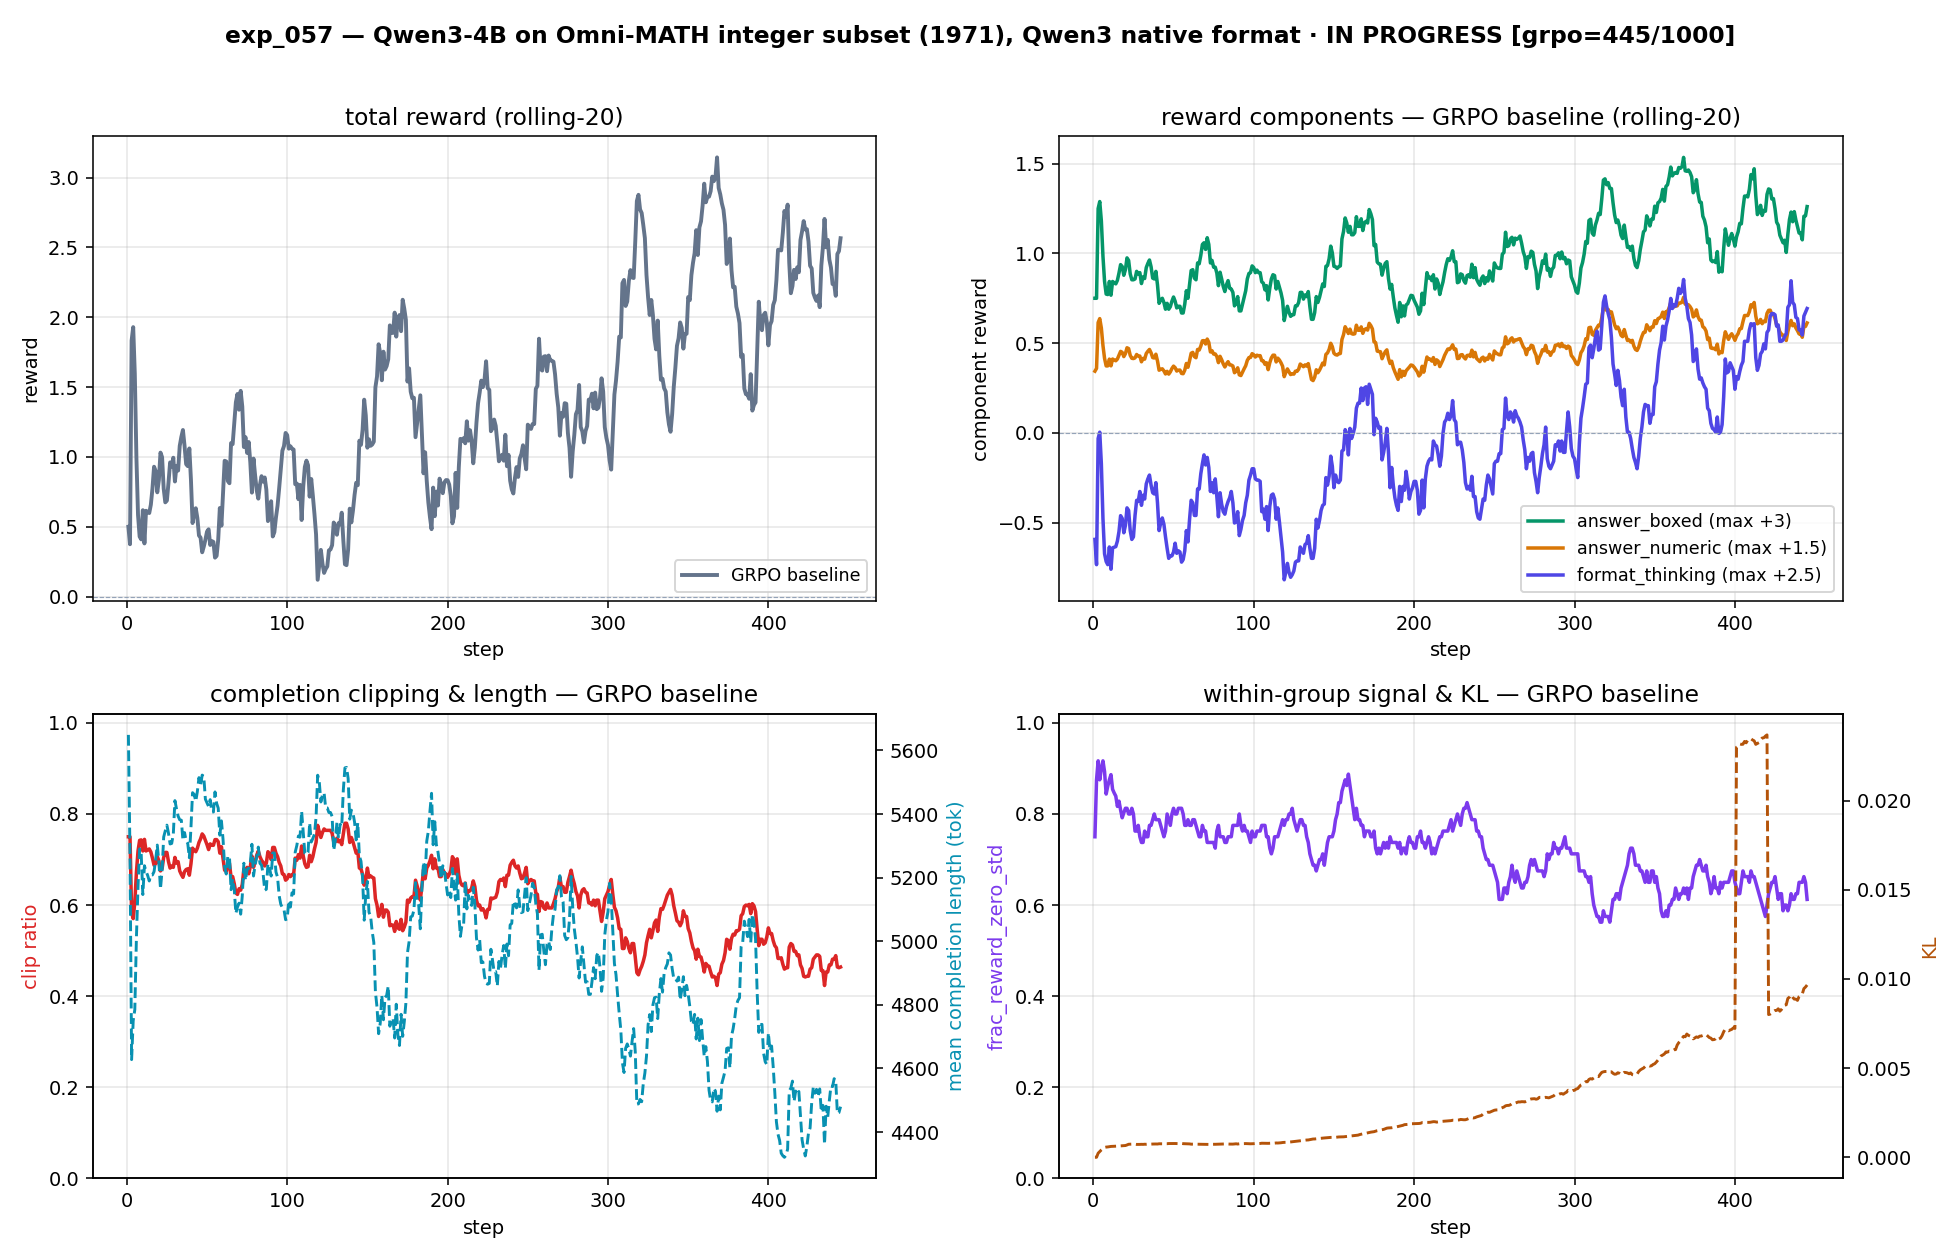
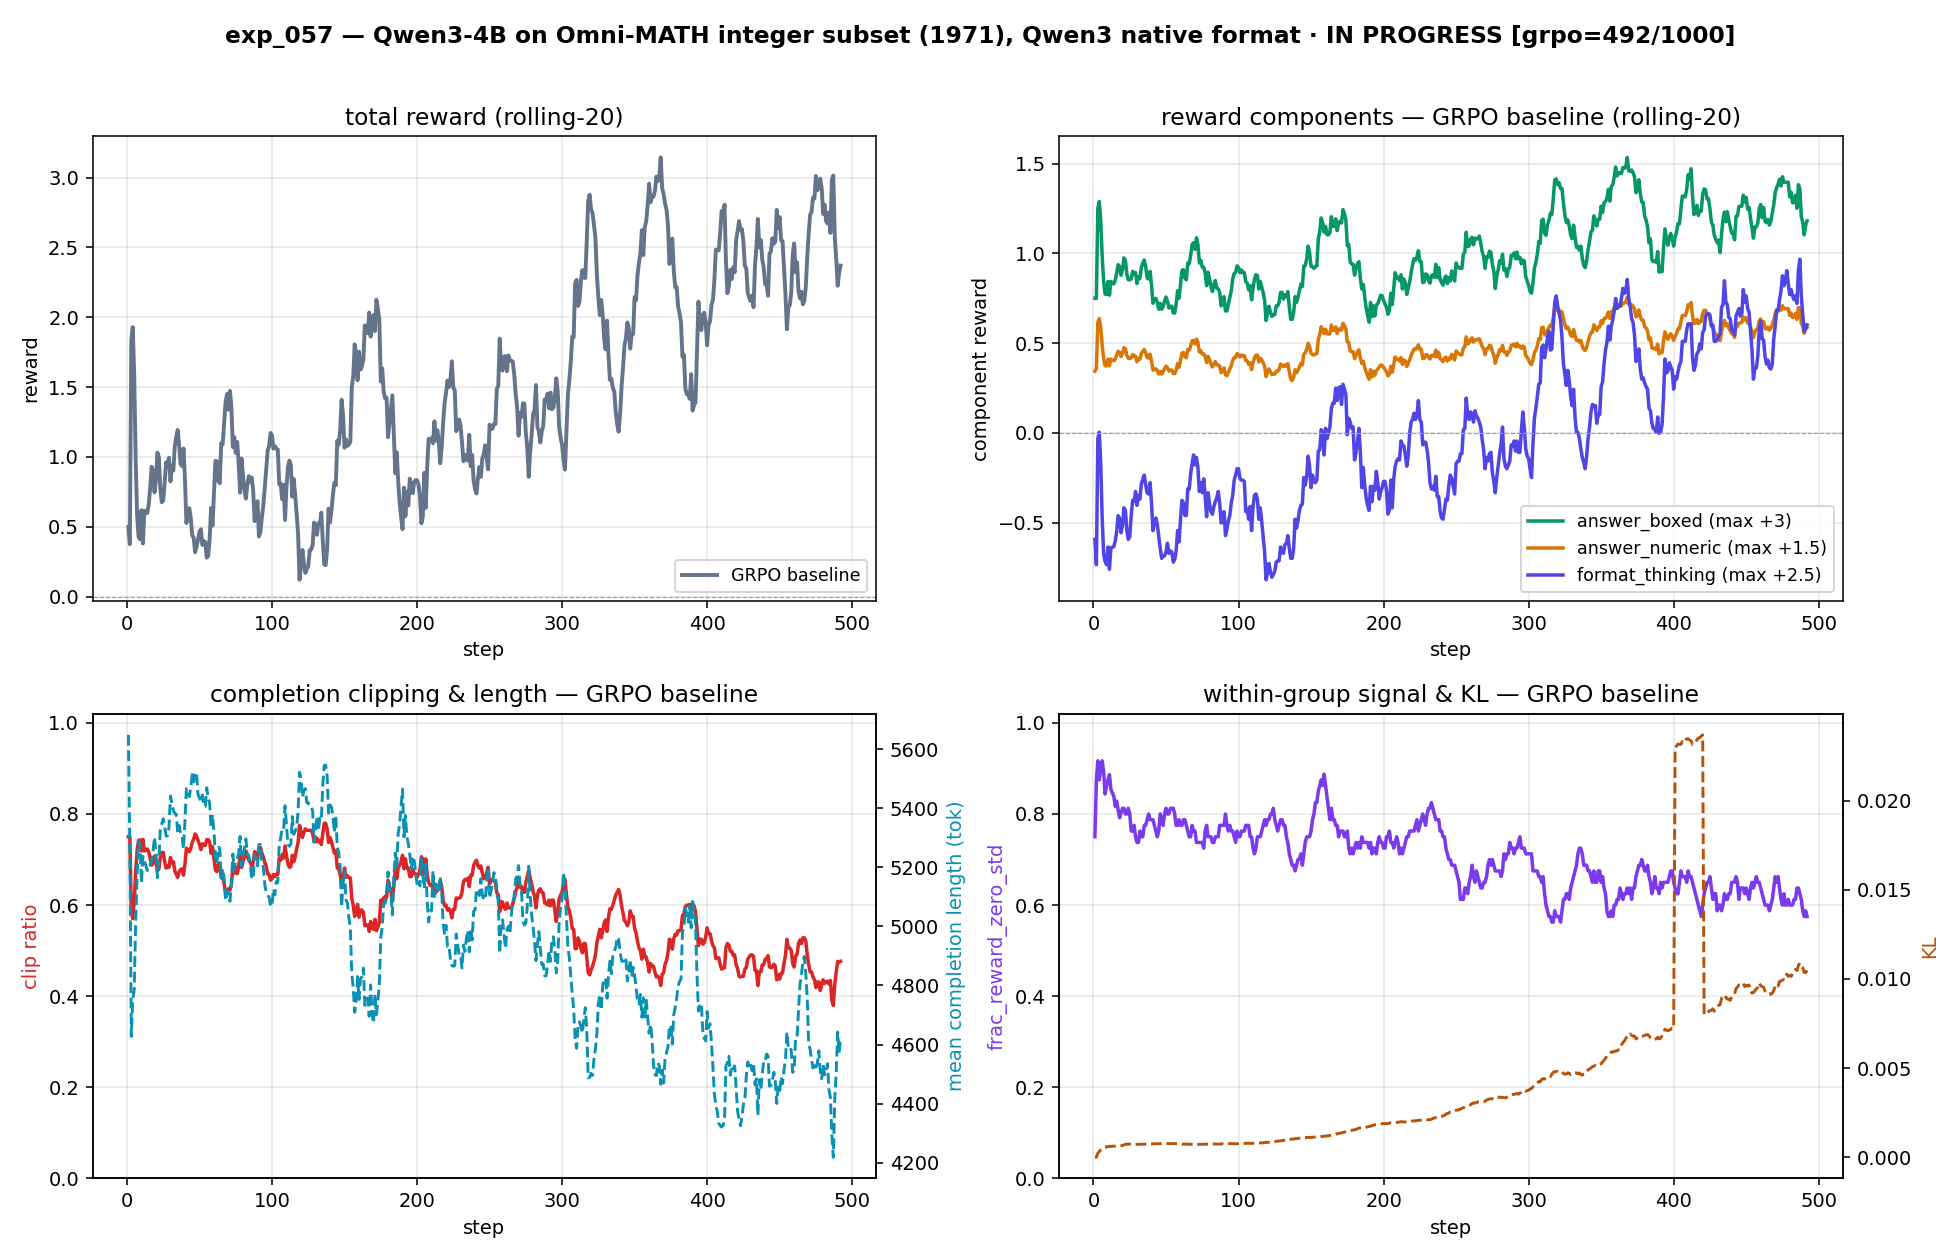
exp_057: grpo baseline stopped @492, final stats + updated progress plot
grpo reward +0.64->+2.56 (peak roll-20 +3.15@368), boxed +1.27/3.0, format
+0.65, KL 0.010, clip 46%. Non-saturated (ceiling ~+7) — headroom exp_055
lacked. README results table filled for grpo; shaped methods next.

diff --git a/experiments/exp_057_qwen3_native_omnimath_int_4way/README.md b/experiments/exp_057_qwen3_native_omnimath_int_4way/README.md
@@ -116,15 +116,23 @@ python train.py --method {grpo|grpo_s_entropy|gtpo_conf|gtpo_ema_flipped}
 
 ## Results
 
-_Pending — run in progress. Last-50-step averages will be filled in here, same
-columns as exp_055 (reward, answer_boxed, answer_numeric, format_thinking, KL, clip%)._
+_In progress — last-50-step averages (same columns as exp_055). Methods stopped
+early once a reward plateau is visible (stop-early workflow). Snapshot plot:
+`figures/exp057_progress.png`._
 
 | method | steps | reward L50 | answer_boxed L50 | answer_numeric L50 | format_thinking L50 | KL | clip% |
 |---|---|---|---|---|---|---|---|
-| grpo (baseline)        | — | — | — | — | — | — | — |
+| grpo (baseline)        | 492 (stopped) | +2.56 | +1.27 | +0.63 | +0.65 | 0.010 | 46% |
 | grpo_s_entropy         | — | — | — | — | — | — | — |
 | gtpo_conf (tag-masked) | — | — | — | — | — | — | — |
 | gtpo_ema_flipped       | — | — | — | — | — | — | — |
+
+**grpo baseline (492 steps):** reward climbs +0.64 (first 50) → +2.56 (last 50),
+peak rolling-20 +3.15 @ step 368. Far from the ~+7 ceiling — **non-saturated**,
+the opposite of exp_055. Over training: format_thinking −0.55 → +0.65 (model
+learns to close `<think>`), clip 72% → 46%, mean completion 5380 → 4575 tok,
+`frac_reward_zero_std` 0.80 → 0.60 (more steps carry within-group signal). This
+is the headroom exp_055 lacked — the shaped methods now have something to act on.
 
 ## Files
 
